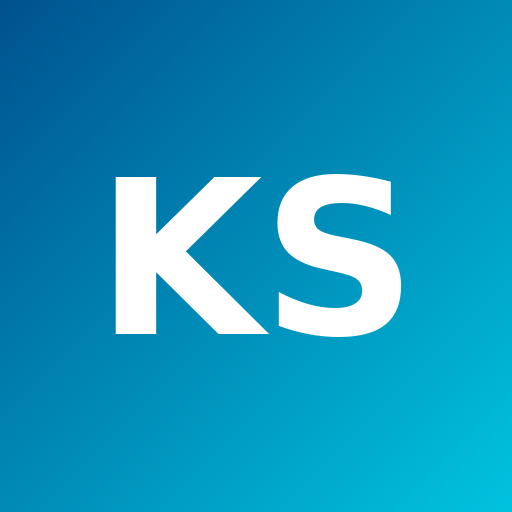
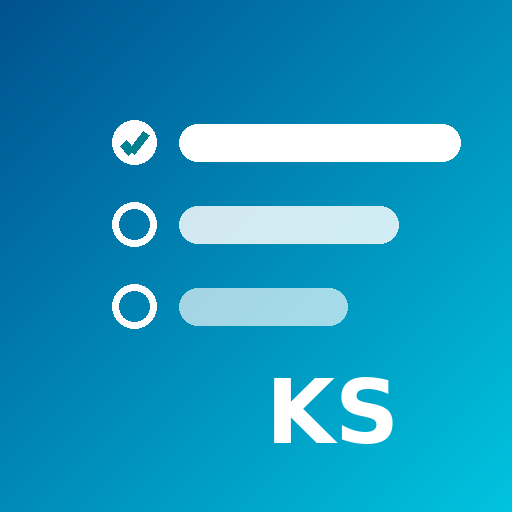
Add files via upload

Changed region(s): [[0.2188, 0.2188, 0.9062, 0.6562], [0.5312, 0.7188, 0.7812, 0.875]]

diff --git a/sw.js b/sw.js
@@ -2,7 +2,7 @@
    Estrategia: red primero, con copia en caché como respaldo.
    Así siempre te llevás la última versión del repo, pero si no hay
    internet la app abre igual con lo último que vio. */
-const CACHE = 'tablero-ks-v1';
+const CACHE = 'tablero-ks-v2';
 const SHELL = ['./', './index.html', './manifest.webmanifest', './icon-192.png', './icon-512.png', './icon-512-maskable.png'];
 
 self.addEventListener('install', e => {